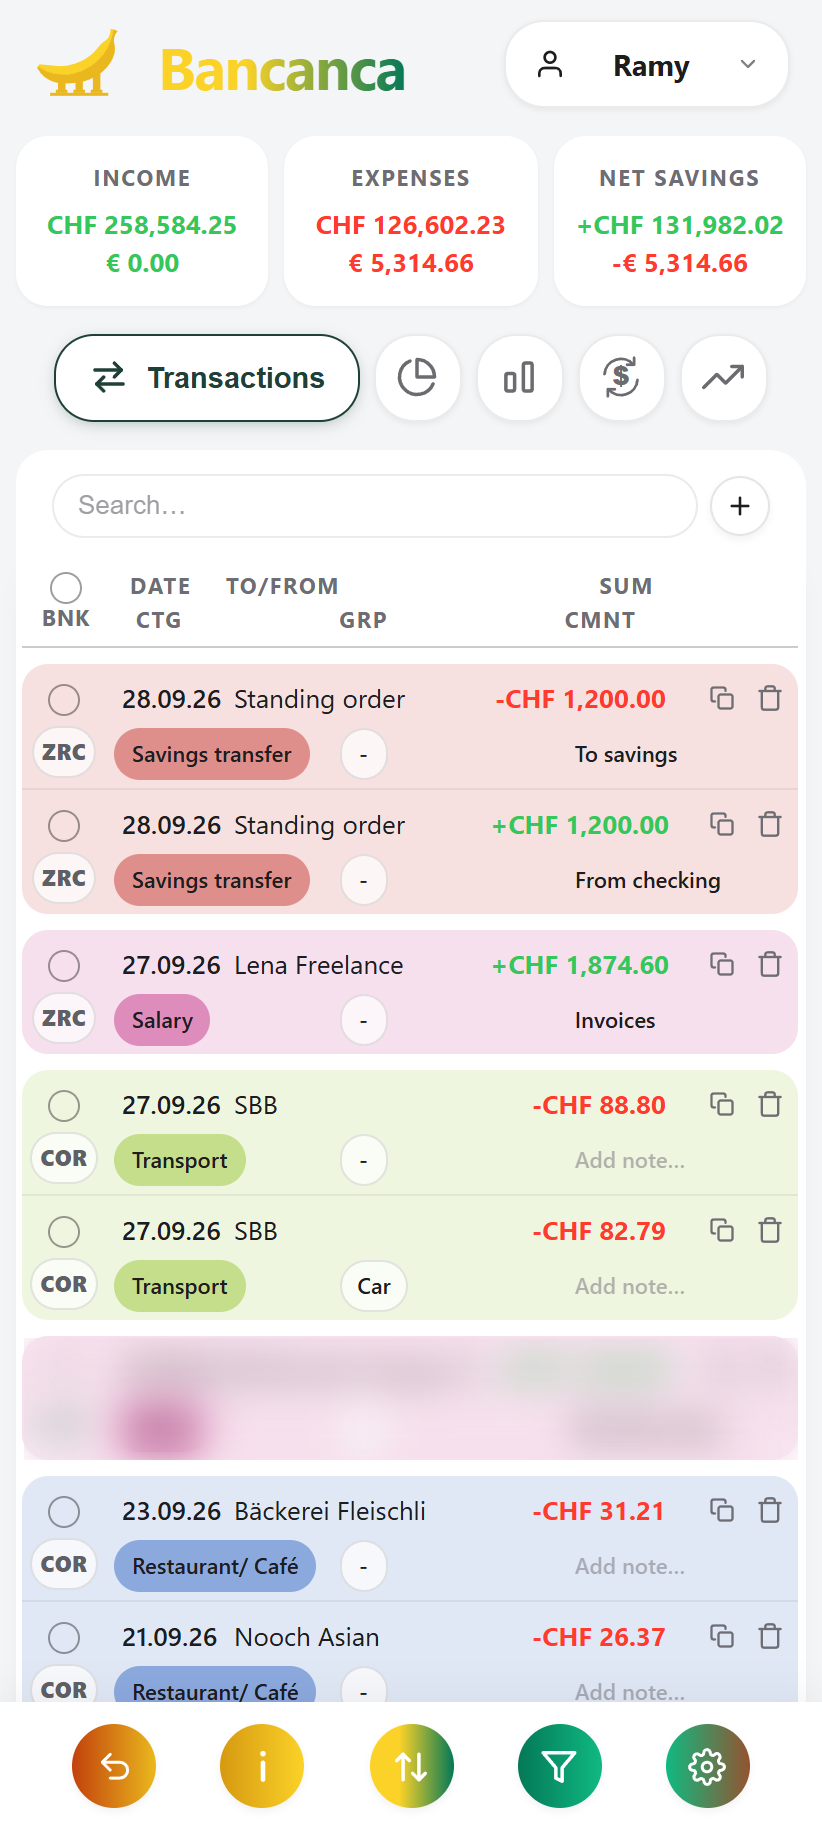
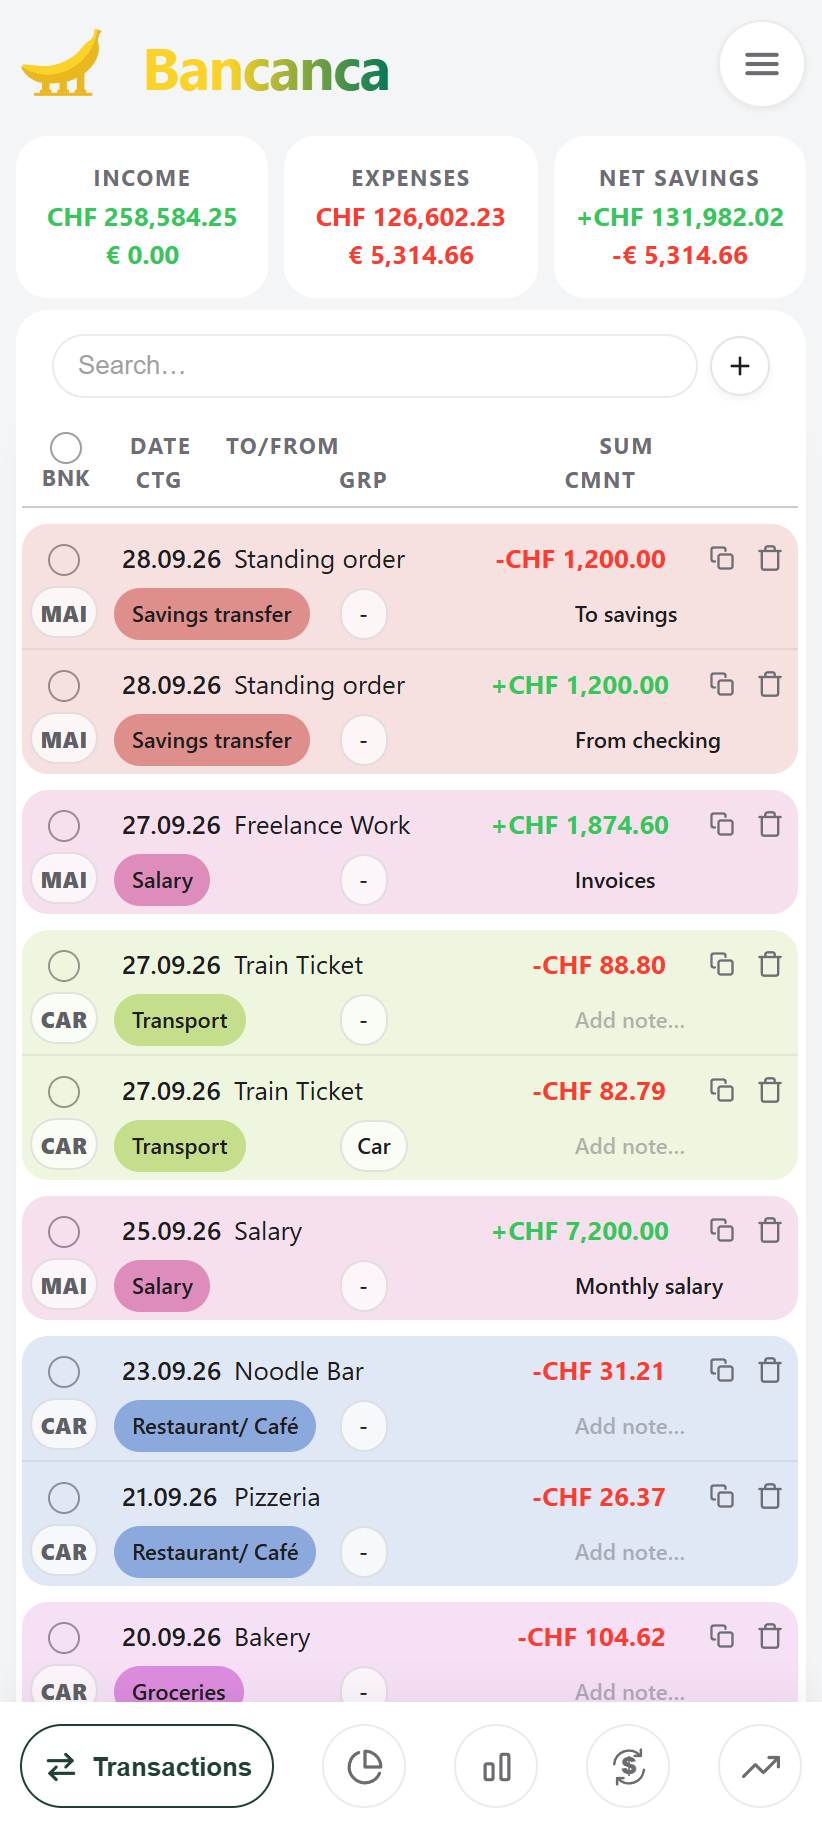
feat: new Bancanca screenshots (ledger, ETF projection); the award appears, only the limericks type

diff --git a/index.html b/index.html
@@ -152,6 +152,8 @@ html:not([data-theme="dark"]) .dots i{background:rgba(35,35,35,.16)}
 .slide{flex:0 0 100%; min-width:0; padding:0 16px}
 
 /* ---------- writing ---------- */
+.appear{opacity:0; transform:translateY(12px); transition:opacity .9s var(--ease), transform .9s var(--ease)}
+.appear.in{opacity:1; transform:none}
 .award{display:flex; gap:18px; align-items:flex-start}
 .medal{flex:none; width:52px; height:52px; border-radius:17px; display:grid; place-items:center; color:#a16207; background:linear-gradient(135deg,#fde68a,#fbbf24); box-shadow:0 6px 18px -6px rgba(217,119,6,.55)}
 .medal svg{width:24px; height:24px}
@@ -356,12 +358,12 @@ footer{padding:0 clamp(16px,3vw,32px) 40px; text-align:center; color:var(--ink-3
       <section class="panel" id="writing" role="tabpanel">
         <div class="wrap">
           <h1>Writing</h1>
-          <section class="glass card">
+          <section class="glass card appear" id="awardCard">
             <div class="award">
               <div class="medal"><svg class="i" viewBox="0 0 24 24"><circle cx="12" cy="9" r="6"/><path d="M8.5 14L7 22l5-3 5 3-1.5-8"/></svg></div>
               <div>
                 <div class="k">Award</div>
-                <p id="awardText" data-text="First-prize laureate of the Limerick Contest at the First International Aphoristic Conference “Magnum in Parvo”."></p>
+                <p id="awardText">First-prize laureate of the Limerick Contest at the First International Aphoristic Conference “Magnum in Parvo”.</p>
               </div>
             </div>
           </section>
@@ -457,7 +459,7 @@ footer{padding:0 clamp(16px,3vw,32px) 40px; text-align:center; color:var(--ink-3
                   </div>
                   <div class="gallery">
                     <figure style="flex:.45"><img src="assets/img/bancanca-transactions.png" alt="Bancanca main screen with income, expenses and the transaction ledger" loading="lazy" width="822" height="1828"><figcaption>The ledger, with sample data</figcaption></figure>
-                    <figure style="flex:.45"><img src="assets/img/bancanca-mortgage.png" alt="Bancanca guide with historic mortgage rates in Switzerland" loading="lazy" width="822" height="1828"><figcaption>Historic mortgage rates by country</figcaption></figure>
+                    <figure style="flex:.45"><img src="assets/img/bancanca-investing.png" alt="Bancanca projection of an ETF portfolio over twenty years, principal and compound interest" loading="lazy" width="822" height="1828"><figcaption>An ETF projection over twenty years</figcaption></figure>
                   </div>
                 </div>
               </article>

diff --git a/assets/app.js b/assets/app.js
@@ -201,16 +201,14 @@ and checked the cleavage of my escort.`,
 const poemTrack = $('#poemTrack');
 poemTrack.innerHTML = LIMERICKS.map(() => '<div class="slide"><div class="poem"><div></div></div></div>').join('');
 const poemTypers = $$('.poem > div', poemTrack).map((el, k) => typer(el, LIMERICKS[k], { speed: 34 }));
-const awardEl = $('#awardText');
-const awardTyper = typer(awardEl, awardEl.dataset.text, { speed: 22 });
-let writingOpen = false;
+let poemsReady = false;   // set once the award card has appeared
 
 const poems = carousel({
   car: $('#poemCar'), trackEl: poemTrack, prev: $('#poemPrev'), next: $('#poemNext'),
   count: $('#poemCount'), dots: $('#poemDots'),
   onChange(i, old) {
     if (old !== i && poemTypers[old].state === 'typing') poemTypers[old].finish();
-    if (writingOpen && awardTyper.state === 'done') poemTypers[i].start();
+    if (poemsReady) poemTypers[i].start();
   },
 });
 
@@ -367,8 +365,9 @@ function initMap() {
 /* ================= first visits ================= */
 const onFirstShow = {
   writing() {
-    writingOpen = true;
-    setTimeout(() => awardTyper.start(() => poemTypers[poems.index].start()), reduced ? 0 : 450);
+    // The award simply appears; only the limericks are typed.
+    $('#awardCard').classList.add('in');
+    setTimeout(() => { poemsReady = true; poemTypers[poems.index].start(); }, reduced ? 0 : 900);
   },
   archive() { initMap(); },
   apps() { loadAppImages(); },
